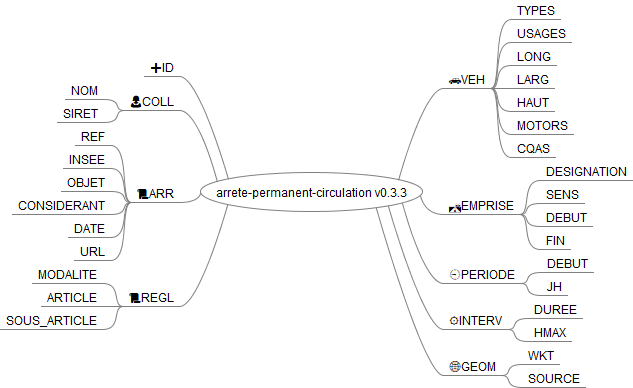
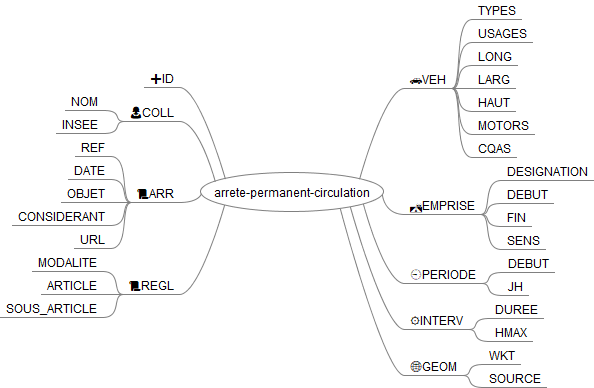
fix : renommage de ARR_INSEE en COLL_INSEE et VEH_PTAC en VEH_TONNAGE

diff --git a/mindmaps/arrete-permanent-circulation.mm b/mindmaps/arrete-permanent-circulation.mm
@@ -1,18 +1,20 @@
 <map version="1.1.0">
 <!-- To view this file, download free mind mapping software FreeMind from http://freemind.sourceforge.net -->
-<node CREATED="1619865105173" ID="ID_1749962809" MODIFIED="1620394174024" TEXT="arrete-permanent-circulation v0.3.3">
-<node CREATED="1619865353016" ID="ID_1858368593" MODIFIED="1620394017018" POSITION="right" TEXT="&#xd83d;&#xdee3;ZONE">
-<node CREATED="1619865357168" ID="ID_1562763376" MODIFIED="1619865358593" TEXT="TYPE"/>
-<node CREATED="1619865358788" ID="ID_1877635793" MODIFIED="1619865359479" TEXT="REF"/>
-</node>
+<node CREATED="1619865105173" ID="ID_1749962809" MODIFIED="1630417594862" TEXT="arrete-permanent-circulation">
 <node CREATED="1619865210914" ID="ID_1209478113" MODIFIED="1620393957368" POSITION="right" TEXT="&#xd83d;&#xde97;VEH">
-<node CREATED="1619865419573" ID="ID_894149425" MODIFIED="1619865421842" TEXT="TYPE"/>
-<node CREATED="1619865255919" ID="ID_1034836512" MODIFIED="1619865257560" TEXT="USAGE"/>
+<node CREATED="1619865419573" ID="ID_894149425" MODIFIED="1626787362674" TEXT="TYPES"/>
+<node CREATED="1619865255919" ID="ID_1034836512" MODIFIED="1626787361365" TEXT="USAGES"/>
 <node CREATED="1619865258031" ID="ID_333236960" MODIFIED="1619865263161" TEXT="LONG"/>
 <node CREATED="1619865263657" ID="ID_1401226823" MODIFIED="1619865264751" TEXT="LARG"/>
 <node CREATED="1619865264950" ID="ID_1247136782" MODIFIED="1619865266106" TEXT="HAUT"/>
-<node CREATED="1619865266282" ID="ID_270302087" MODIFIED="1619865268367" TEXT="MOTOR"/>
-<node CREATED="1619865430858" ID="ID_389151941" MODIFIED="1619865433092" TEXT="CQA"/>
+<node CREATED="1619865266282" ID="ID_270302087" MODIFIED="1626787365606" TEXT="MOTORS"/>
+<node CREATED="1619865430858" ID="ID_389151941" MODIFIED="1626787366996" TEXT="CQAS"/>
+</node>
+<node CREATED="1619865212205" ID="ID_202979938" MODIFIED="1623157718409" POSITION="right" TEXT="&#xd83d;&#xdee3;EMPRISE">
+<node CREATED="1619865232855" ID="ID_1755414890" MODIFIED="1623157725069" TEXT="DESIGNATION"/>
+<node CREATED="1619865237262" ID="ID_385085536" MODIFIED="1619865239196" TEXT="DEBUT"/>
+<node CREATED="1619865239378" ID="ID_564320809" MODIFIED="1619865240846" TEXT="FIN"/>
+<node CREATED="1619865465468" ID="ID_849551227" MODIFIED="1630411735446" TEXT="SENS"/>
 </node>
 <node CREATED="1619865434486" ID="ID_146174758" MODIFIED="1619865555701" POSITION="right" TEXT="&#x23f2;PERIODE">
 <node CREATED="1619865437467" ID="ID_319723037" MODIFIED="1619865440060" TEXT="DEBUT"/>
@@ -22,35 +24,20 @@
 <node CREATED="1619865452460" ID="ID_842076771" MODIFIED="1619865453585" TEXT="DUREE"/>
 <node CREATED="1619865454354" ID="ID_469729070" MODIFIED="1619865455321" TEXT="HMAX"/>
 </node>
-<node CREATED="1619865212205" ID="ID_202979938" MODIFIED="1620394009728" POSITION="right" TEXT="&#xd83d;&#xdee3;SECTION">
-<node CREATED="1619865232855" ID="ID_1755414890" MODIFIED="1619865236563" TEXT="VOIE"/>
-<node CREATED="1619865465468" ID="ID_849551227" MODIFIED="1620393932927" TEXT="SENS"/>
-<node CREATED="1619865237262" ID="ID_385085536" MODIFIED="1619865239196" TEXT="DEBUT">
-<node CREATED="1619865242681" ID="ID_1381565508" MODIFIED="1619865246840" TEXT="POINT"/>
-<node CREATED="1619865247338" ID="ID_1841473983" MODIFIED="1619865248073" TEXT="REF"/>
-</node>
-<node CREATED="1619865239378" ID="ID_564320809" MODIFIED="1619865240846" TEXT="FIN">
-<node CREATED="1619865249803" ID="ID_714427996" MODIFIED="1619865251495" TEXT="POINT"/>
-<node CREATED="1619865252070" ID="ID_1328929257" MODIFIED="1619865252929" TEXT="REF"/>
-</node>
-</node>
 <node CREATED="1619865216643" ID="ID_214707315" MODIFIED="1620394027621" POSITION="right" TEXT="&#xd83c;&#xdf10;GEOM">
-<node CREATED="1619865219378" ID="ID_1764543800" MODIFIED="1619865225432" TEXT="JSON"/>
 <node CREATED="1619865226075" ID="ID_461644584" MODIFIED="1619865227598" TEXT="WKT"/>
 <node CREATED="1619865228086" ID="ID_1862991070" MODIFIED="1619865229318" TEXT="SOURCE"/>
 </node>
 <node CREATED="1619865309415" ID="ID_1039630993" MODIFIED="1620394037036" POSITION="left" TEXT="&#x2795;ID"/>
 <node CREATED="1619865371544" ID="ID_472636446" MODIFIED="1620393982178" POSITION="left" TEXT="&#xd83d;&#xdc69;&#x200d;COLL">
 <node CREATED="1619865373890" ID="ID_1651310421" MODIFIED="1619865374896" TEXT="NOM"/>
-<node CREATED="1619865375367" ID="ID_573605816" MODIFIED="1619865376445" TEXT="SIRET"/>
+<node CREATED="1630417579321" ID="ID_670973237" MODIFIED="1630417581578" TEXT="INSEE"/>
 </node>
 <node CREATED="1619865204755" ID="ID_4130191" MODIFIED="1620393990660" POSITION="left" TEXT="&#xd83d;&#xdcdc;ARR">
 <node CREATED="1619865287250" ID="ID_1946612117" MODIFIED="1619865290662" TEXT="REF"/>
-<node CREATED="1619865404421" ID="ID_968937658" MODIFIED="1619865405358" TEXT="INSEE"/>
+<node CREATED="1619865295513" ID="ID_848592064" MODIFIED="1623158655059" TEXT="DATE"/>
 <node CREATED="1619865379996" ID="ID_1848599244" MODIFIED="1619865381519" TEXT="OBJET"/>
 <node CREATED="1619865381716" ID="ID_1847687243" MODIFIED="1619865383672" TEXT="CONSIDERANT"/>
-<node CREATED="1619865291277" ID="ID_568196995" MODIFIED="1619865294966" TEXT="EST_MAJ"/>
-<node CREATED="1619865295513" ID="ID_848592064" MODIFIED="1619865305947" TEXT="DATE_CREATION"/>
 <node CREATED="1619865395057" ID="ID_1927969250" MODIFIED="1619865395729" TEXT="URL"/>
 </node>
 <node CREATED="1619865209232" ID="ID_1560919460" MODIFIED="1620394000336" POSITION="left" TEXT="&#xd83d;&#xdcdc;REGL">
